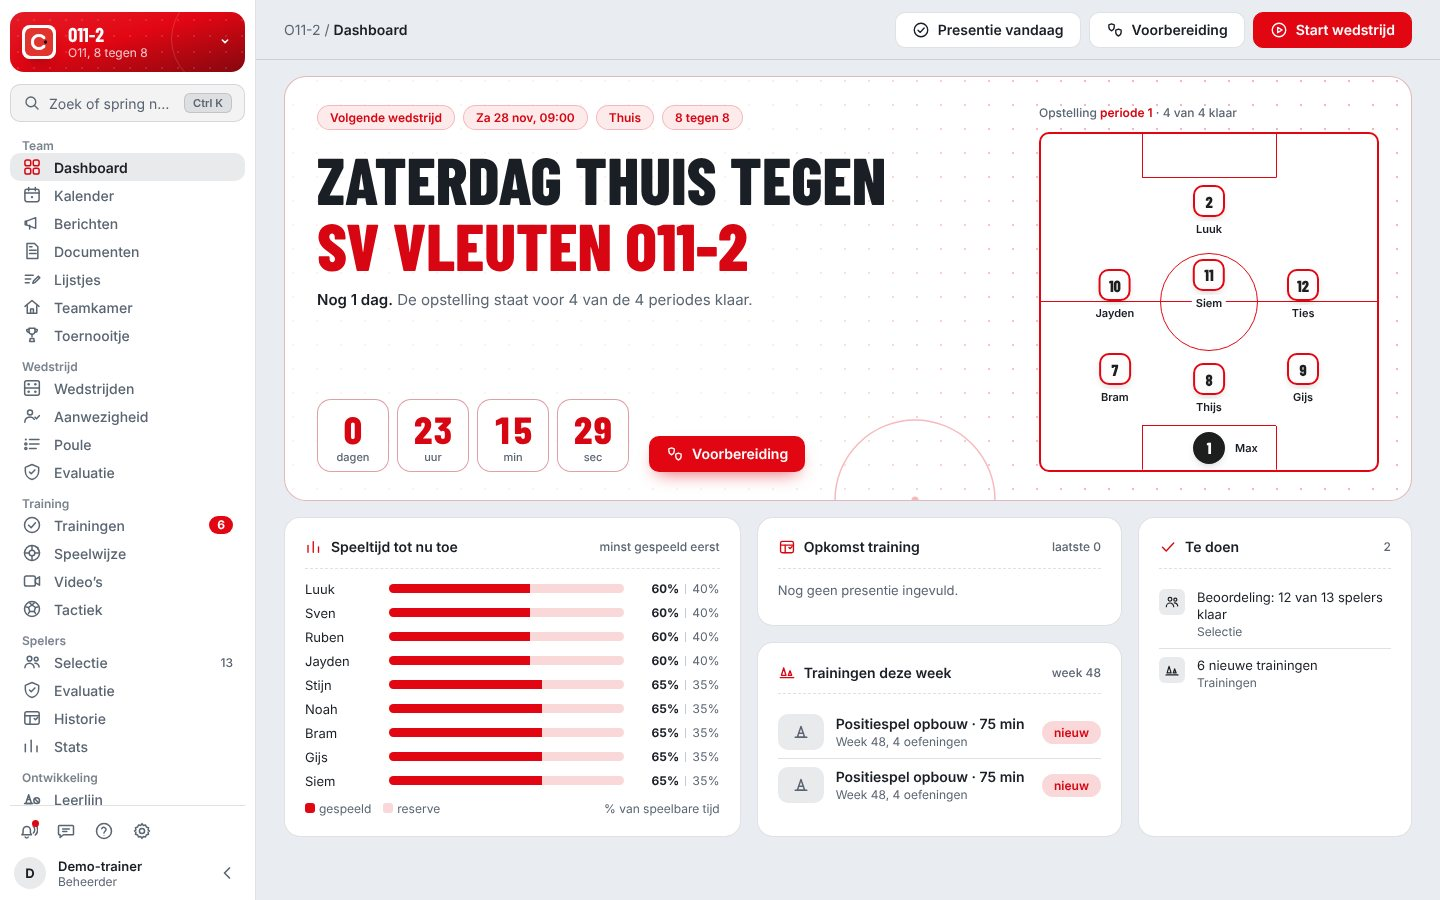
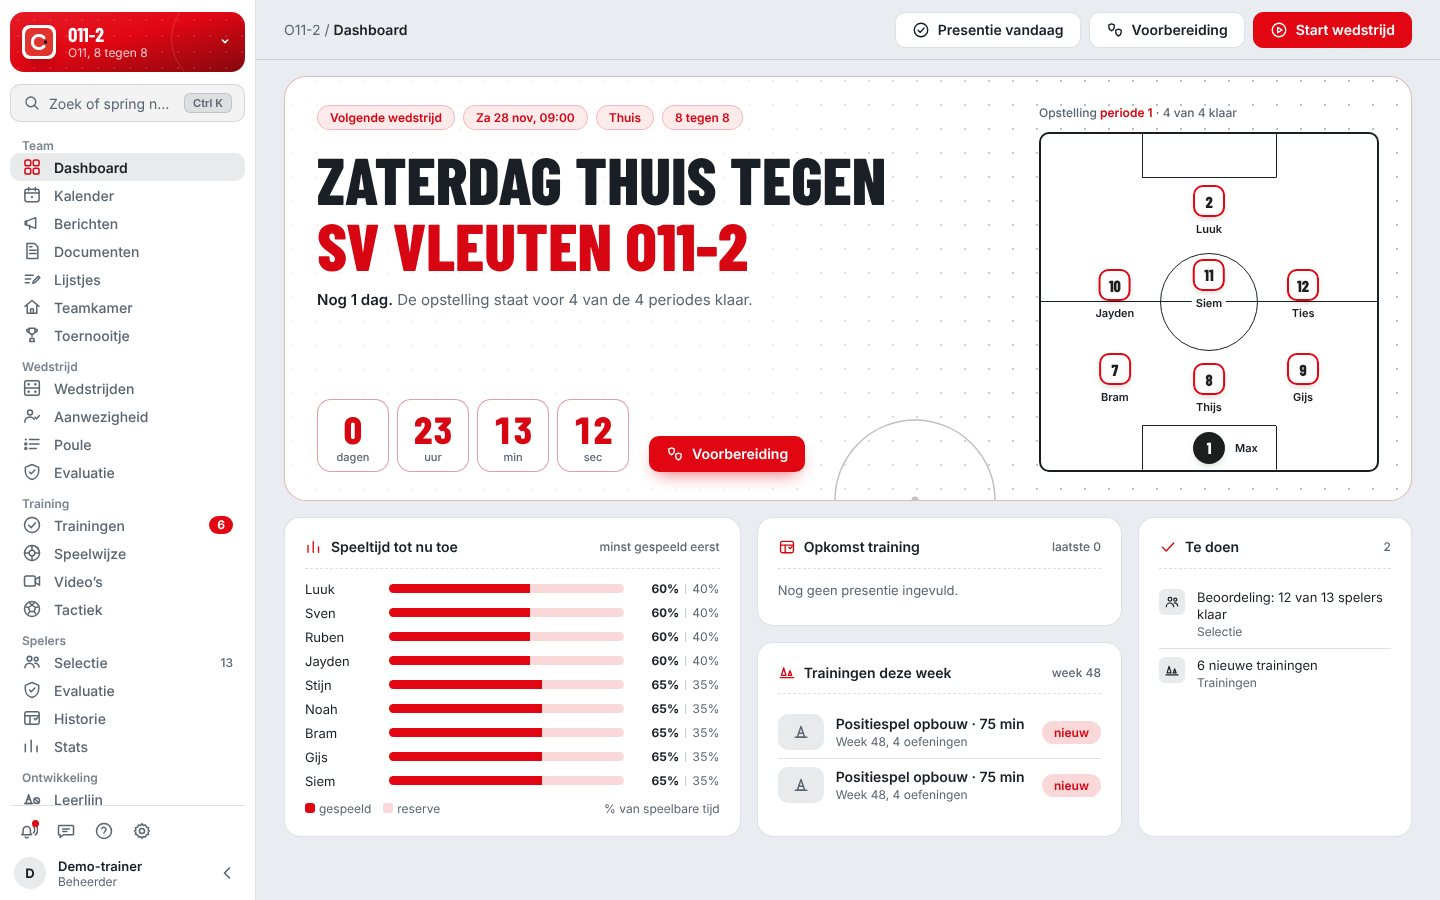
Dashboard: veldlijnen, cirkel en stippen zwart in het lichte thema
Claude-Session: https://claude.ai/code/session_018TW4pFfqrtPTGytwdqjVjb

diff --git a/public/styles.css b/public/styles.css
@@ -10224,13 +10224,13 @@ p.cp-let{margin:0;font-size:var(--t-sm)}
   /* [20261127] strakker: stippen als scherpe 2px-punten op een vast raster vanaf de binnenrand, achter de tekst bijna weg;
      één halve middencirkel rechtsonder in het tekstblok, die niets van de inhoud kruist */
   .dk-bord-raster{ position:absolute; inset:0; z-index:-1; pointer-events:none;
-    background-image:radial-gradient(circle at 1px 1px,color-mix(in srgb,var(--bord-lijn) 30%,var(--surface)) 1px,transparent 1.2px);
+    background-image:radial-gradient(circle at 1px 1px,color-mix(in srgb,var(--ink) 30%,var(--surface)) 1px,transparent 1.2px);
     background-size:24px 24px; background-position:31px 27px;
     -webkit-mask-image:linear-gradient(90deg,rgba(0,0,0,.18) 0%,rgba(0,0,0,.18) 40%,#000 72%); mask-image:linear-gradient(90deg,rgba(0,0,0,.18) 0%,rgba(0,0,0,.18) 40%,#000 72%); }
   :root[data-thema="donker"] .dk-bord-raster{ background-image:radial-gradient(circle at 1px 1px,color-mix(in srgb,var(--wit) 16%,transparent) 1px,transparent 1.2px); }
   .dk-bord-lijnen{ position:absolute; right:0; bottom:-28px; width:200px; height:100px; z-index:-1; pointer-events:none; overflow:visible; }
-  .dk-bord-lijnen .lijn{ fill:none; stroke:color-mix(in srgb,var(--bord-lijn) 28%,var(--surface)); stroke-width:1.5; vector-effect:non-scaling-stroke; }
-  .dk-bord-lijnen .stip{ fill:color-mix(in srgb,var(--bord-lijn) 28%,var(--surface)); }
+  .dk-bord-lijnen .lijn{ fill:none; stroke:color-mix(in srgb,var(--ink) 28%,var(--surface)); stroke-width:1.5; vector-effect:non-scaling-stroke; }
+  .dk-bord-lijnen .stip{ fill:color-mix(in srgb,var(--ink) 28%,var(--surface)); }
   :root[data-thema="donker"] .dk-bord-lijnen .lijn{ stroke:color-mix(in srgb,var(--wit) 16%,transparent); }
   :root[data-thema="donker"] .dk-bord-lijnen .stip{ fill:color-mix(in srgb,var(--wit) 16%,transparent); }
   @media (max-width:1359px){ .dk-bord-lijnen{ display:none; } }
@@ -10257,7 +10257,7 @@ p.cp-let{margin:0;font-size:var(--t-sm)}
 
   /* opstelling als tactiekbord. [20261127] strakker: wit (donker: effen) veld met dekkende lijnen in de bordkleur in plaats van
      half doorzichtig (dat werd roze), kop boven het veld, beide doelgebieden, middencirkel en middenstip */
-  .dk-bord{ --veld-lijn: var(--accent); }
+  .dk-bord{ --veld-lijn: var(--ink); }
   :root[data-thema="donker"] .dk-bord{ --veld-lijn: color-mix(in srgb,var(--wit) 42%,var(--surface)); }
   .dk-bord .dk-veld-knop{ position:relative; align-self:stretch; display:flex; flex-direction:column; gap:10px; border-radius:var(--r-m); }
   .dk-veld-label{ font-size:var(--t-xs); font-weight:500; color:var(--ink-2); text-align:left; line-height:1.4; }
